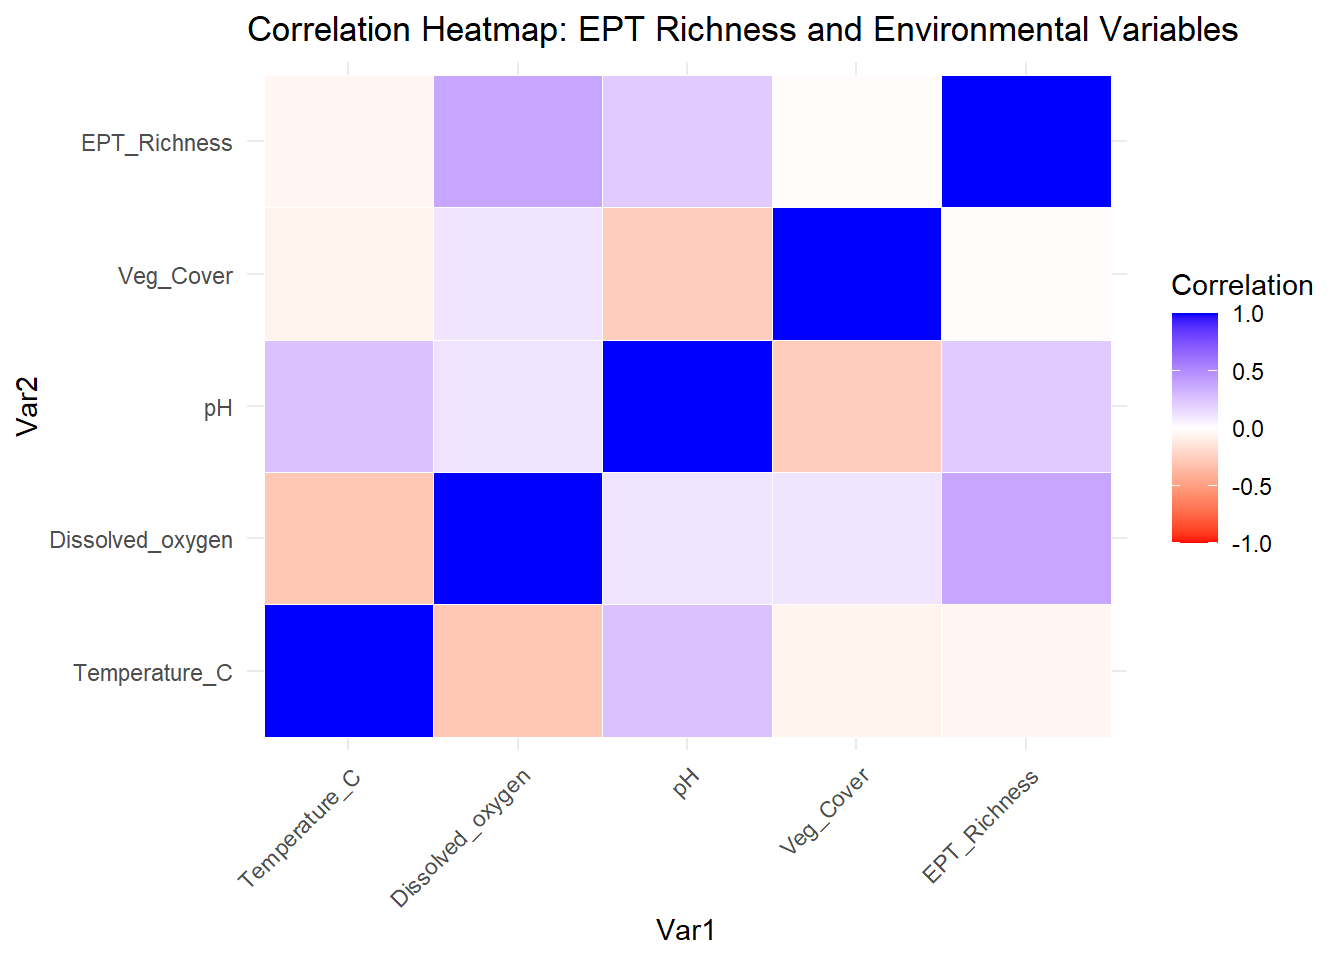
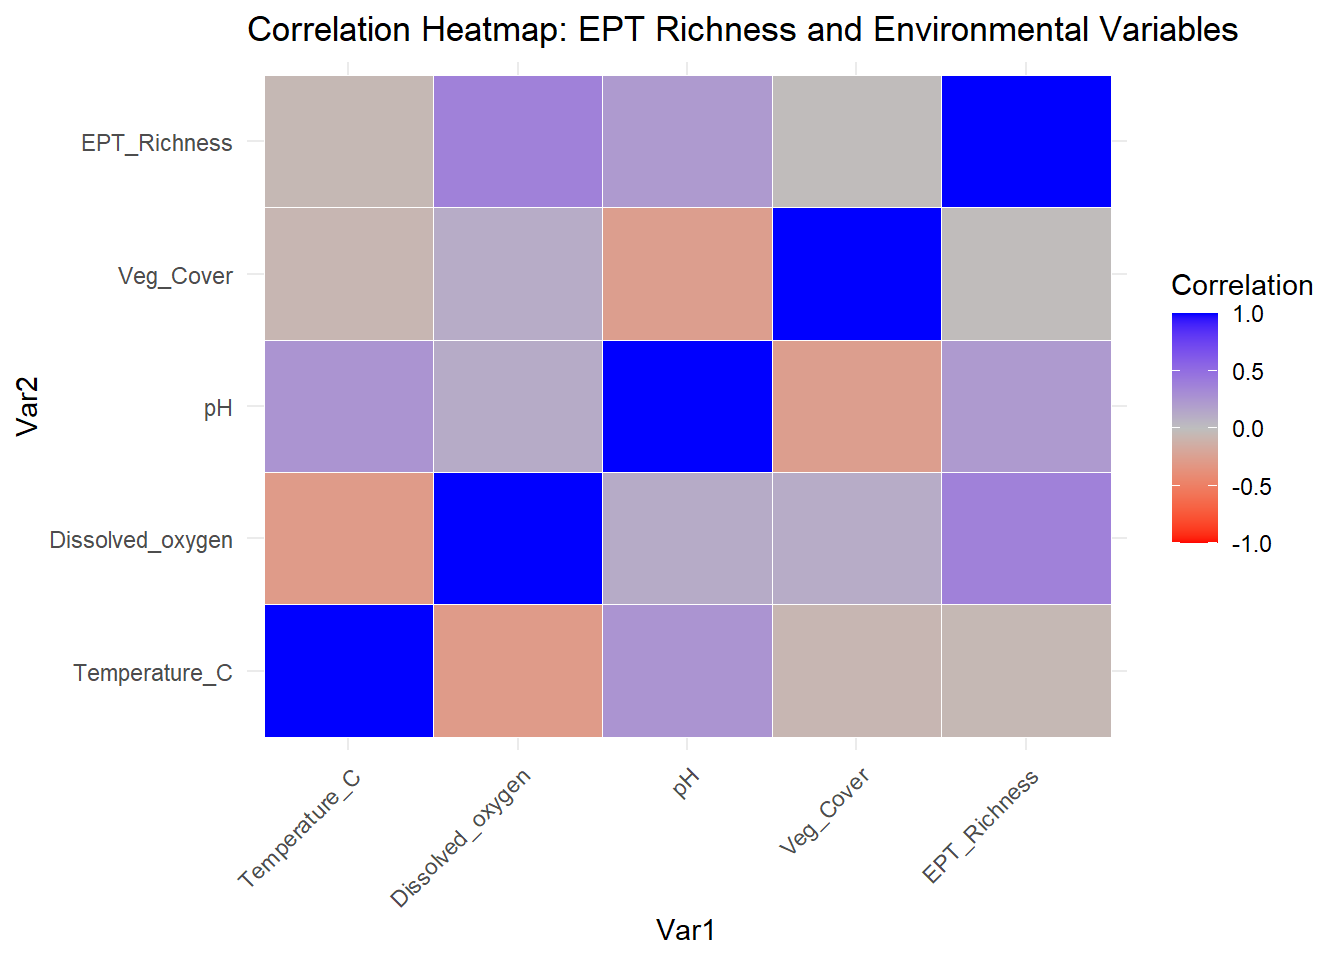
saved

diff --git a/docs/index.html b/docs/index.html
@@ -3447,10 +3447,12 @@ Attaching package: &#39;reshape2&#39;</code></pre>
 <a class="quarto-notebook-link" id="nblink-1" href="index-preview.html">Source: Article Notebook</a></div>
 <div class="cell">
 <div class="sourceCode cell-code" id="cb27"><pre class="sourceCode r code-with-copy"><code class="sourceCode r"><span id="cb27-1"><a href="#cb27-1" aria-hidden="true" tabindex="-1"></a><span class="co"># Predicted vs Actual Plot</span></span>
-<span id="cb27-2"><a href="#cb27-2" aria-hidden="true" tabindex="-1"></a><span class="fu">ggplot</span>(predictions, <span class="fu">aes</span>(<span class="at">x =</span> Taxa_Richness, <span class="at">y =</span> .pred)) <span class="sc">+</span> </span>
+<span id="cb27-2"><a href="#cb27-2" aria-hidden="true" tabindex="-1"></a>predicted_vs_actual <span class="ot">&lt;-</span> <span class="fu">ggplot</span>(predictions, <span class="fu">aes</span>(<span class="at">x =</span> Taxa_Richness, <span class="at">y =</span> .pred)) <span class="sc">+</span> </span>
 <span id="cb27-3"><a href="#cb27-3" aria-hidden="true" tabindex="-1"></a>  <span class="fu">geom_point</span>(<span class="at">alpha =</span> <span class="fl">0.5</span>) <span class="sc">+</span> </span>
 <span id="cb27-4"><a href="#cb27-4" aria-hidden="true" tabindex="-1"></a>  <span class="fu">geom_abline</span>(<span class="at">linetype =</span> <span class="st">&quot;dashed&quot;</span>, <span class="at">color =</span> <span class="st">&quot;blue&quot;</span>) <span class="sc">+</span> </span>
-<span id="cb27-5"><a href="#cb27-5" aria-hidden="true" tabindex="-1"></a>  <span class="fu">labs</span>(<span class="at">x =</span> <span class="st">&quot;Actual Taxa Richness&quot;</span>, <span class="at">y =</span> <span class="st">&quot;Predicted&quot;</span>, <span class="at">title =</span> <span class="st">&quot;Predicted vs Actual Taxa Richness&quot;</span>)</span></code><button title="Copy to Clipboard" class="code-copy-button"><i class="bi"></i></button></pre></div>
+<span id="cb27-5"><a href="#cb27-5" aria-hidden="true" tabindex="-1"></a>  <span class="fu">labs</span>(<span class="at">x =</span> <span class="st">&quot;Actual Taxa Richness&quot;</span>, <span class="at">y =</span> <span class="st">&quot;Predicted&quot;</span>, <span class="at">title =</span> <span class="st">&quot;Predicted vs Actual Taxa Richness&quot;</span>)</span>
+<span id="cb27-6"><a href="#cb27-6" aria-hidden="true" tabindex="-1"></a></span>
+<span id="cb27-7"><a href="#cb27-7" aria-hidden="true" tabindex="-1"></a><span class="fu">print</span>(predicted_vs_actual)</span></code><button title="Copy to Clipboard" class="code-copy-button"><i class="bi"></i></button></pre></div>
 <div class="cell-output-display">
 <div>
 <figure class="figure">
@@ -3466,11 +3468,13 @@ Attaching package: &#39;reshape2&#39;</code></pre>
 <span id="cb28-3"><a href="#cb28-3" aria-hidden="true" tabindex="-1"></a>  <span class="fu">group_by</span>(Year, Order) <span class="sc">%&gt;%</span></span>
 <span id="cb28-4"><a href="#cb28-4" aria-hidden="true" tabindex="-1"></a>  <span class="fu">summarise</span>(<span class="at">Total_Count =</span> <span class="fu">sum</span>(Count, <span class="at">na.rm =</span> <span class="cn">TRUE</span>), <span class="at">.groups =</span> <span class="st">&quot;drop&quot;</span>)</span>
 <span id="cb28-5"><a href="#cb28-5" aria-hidden="true" tabindex="-1"></a></span>
-<span id="cb28-6"><a href="#cb28-6" aria-hidden="true" tabindex="-1"></a><span class="fu">ggplot</span>(order_counts, <span class="fu">aes</span>(<span class="at">x =</span> <span class="fu">reorder</span>(Order, <span class="sc">-</span>Total_Count), <span class="at">y =</span> Total_Count, <span class="at">fill =</span> <span class="fu">factor</span>(Year))) <span class="sc">+</span></span>
+<span id="cb28-6"><a href="#cb28-6" aria-hidden="true" tabindex="-1"></a>insect_order_abundane <span class="ot">&lt;-</span> <span class="fu">ggplot</span>(order_counts, <span class="fu">aes</span>(<span class="at">x =</span> <span class="fu">reorder</span>(Order, <span class="sc">-</span>Total_Count), <span class="at">y =</span> Total_Count, <span class="at">fill =</span> <span class="fu">factor</span>(Year))) <span class="sc">+</span></span>
 <span id="cb28-7"><a href="#cb28-7" aria-hidden="true" tabindex="-1"></a>  <span class="fu">geom_col</span>(<span class="at">position =</span> <span class="st">&quot;dodge&quot;</span>) <span class="sc">+</span></span>
 <span id="cb28-8"><a href="#cb28-8" aria-hidden="true" tabindex="-1"></a>  <span class="fu">labs</span>(<span class="at">title =</span> <span class="st">&quot;Total Insect Counts by Order: 2013 vs 2019&quot;</span>, <span class="at">x =</span> <span class="st">&quot;Insect Order&quot;</span>, <span class="at">y =</span> <span class="st">&quot;Total Count&quot;</span>, <span class="at">fill =</span> <span class="st">&quot;Year&quot;</span>) <span class="sc">+</span></span>
 <span id="cb28-9"><a href="#cb28-9" aria-hidden="true" tabindex="-1"></a>  <span class="fu">theme_minimal</span>() <span class="sc">+</span></span>
-<span id="cb28-10"><a href="#cb28-10" aria-hidden="true" tabindex="-1"></a>  <span class="fu">theme</span>(<span class="at">axis.text.x =</span> <span class="fu">element_text</span>(<span class="at">angle =</span> <span class="dv">45</span>, <span class="at">hjust =</span> <span class="dv">1</span>))</span></code><button title="Copy to Clipboard" class="code-copy-button"><i class="bi"></i></button></pre></div>
+<span id="cb28-10"><a href="#cb28-10" aria-hidden="true" tabindex="-1"></a>  <span class="fu">theme</span>(<span class="at">axis.text.x =</span> <span class="fu">element_text</span>(<span class="at">angle =</span> <span class="dv">45</span>, <span class="at">hjust =</span> <span class="dv">1</span>))</span>
+<span id="cb28-11"><a href="#cb28-11" aria-hidden="true" tabindex="-1"></a></span>
+<span id="cb28-12"><a href="#cb28-12" aria-hidden="true" tabindex="-1"></a><span class="fu">print</span>(insect_order_abundane)</span></code><button title="Copy to Clipboard" class="code-copy-button"><i class="bi"></i></button></pre></div>
 <div class="cell-output-display">
 <div>
 <figure class="figure">
@@ -3485,11 +3489,13 @@ Attaching package: &#39;reshape2&#39;</code></pre>
 <span id="cb29-2"><a href="#cb29-2" aria-hidden="true" tabindex="-1"></a>riparian_combined <span class="ot">&lt;-</span> merged_data <span class="sc">%&gt;%</span></span>
 <span id="cb29-3"><a href="#cb29-3" aria-hidden="true" tabindex="-1"></a>  <span class="fu">select</span>(Barren_AreaCcover, Year)</span>
 <span id="cb29-4"><a href="#cb29-4" aria-hidden="true" tabindex="-1"></a></span>
-<span id="cb29-5"><a href="#cb29-5" aria-hidden="true" tabindex="-1"></a><span class="fu">ggplot</span>(riparian_combined, <span class="fu">aes</span>(<span class="at">x =</span> Barren_AreaCcover, <span class="at">fill =</span> <span class="fu">factor</span>(Year))) <span class="sc">+</span></span>
+<span id="cb29-5"><a href="#cb29-5" aria-hidden="true" tabindex="-1"></a>riparian_cover <span class="ot">&lt;-</span> <span class="fu">ggplot</span>(riparian_combined, <span class="fu">aes</span>(<span class="at">x =</span> Barren_AreaCcover, <span class="at">fill =</span> <span class="fu">factor</span>(Year))) <span class="sc">+</span></span>
 <span id="cb29-6"><a href="#cb29-6" aria-hidden="true" tabindex="-1"></a>  <span class="fu">geom_bar</span>(<span class="at">position =</span> <span class="st">&quot;dodge&quot;</span>) <span class="sc">+</span></span>
 <span id="cb29-7"><a href="#cb29-7" aria-hidden="true" tabindex="-1"></a>  <span class="fu">labs</span>(<span class="at">title =</span> <span class="st">&quot;Riparian Cover Categories in Lassen NP&quot;</span>, <span class="at">x =</span> <span class="st">&quot;Cover Category&quot;</span>, <span class="at">y =</span> <span class="st">&quot;Count&quot;</span>, <span class="at">fill =</span> <span class="st">&quot;Year&quot;</span>) <span class="sc">+</span></span>
 <span id="cb29-8"><a href="#cb29-8" aria-hidden="true" tabindex="-1"></a>  <span class="fu">theme_minimal</span>() <span class="sc">+</span></span>
-<span id="cb29-9"><a href="#cb29-9" aria-hidden="true" tabindex="-1"></a>  <span class="fu">theme</span>(<span class="at">axis.text.x =</span> <span class="fu">element_text</span>(<span class="at">angle =</span> <span class="dv">45</span>, <span class="at">hjust =</span> <span class="dv">1</span>))</span></code><button title="Copy to Clipboard" class="code-copy-button"><i class="bi"></i></button></pre></div>
+<span id="cb29-9"><a href="#cb29-9" aria-hidden="true" tabindex="-1"></a>  <span class="fu">theme</span>(<span class="at">axis.text.x =</span> <span class="fu">element_text</span>(<span class="at">angle =</span> <span class="dv">45</span>, <span class="at">hjust =</span> <span class="dv">1</span>))</span>
+<span id="cb29-10"><a href="#cb29-10" aria-hidden="true" tabindex="-1"></a></span>
+<span id="cb29-11"><a href="#cb29-11" aria-hidden="true" tabindex="-1"></a><span class="fu">print</span>(riparian_cover)</span></code><button title="Copy to Clipboard" class="code-copy-button"><i class="bi"></i></button></pre></div>
 <div class="cell-output-display">
 <div>
 <figure class="figure">
@@ -3506,12 +3512,14 @@ Attaching package: &#39;reshape2&#39;</code></pre>
 <span id="cb30-4"><a href="#cb30-4" aria-hidden="true" tabindex="-1"></a>  <span class="fu">drop_na</span>() <span class="sc">%&gt;%</span></span>
 <span id="cb30-5"><a href="#cb30-5" aria-hidden="true" tabindex="-1"></a>  <span class="fu">pivot_longer</span>(<span class="at">cols =</span> <span class="fu">c</span>(Temperature_C, Dissolved_oxygen, pH), <span class="at">names_to =</span> <span class="st">&quot;Metric&quot;</span>, <span class="at">values_to =</span> <span class="st">&quot;Value&quot;</span>)</span>
 <span id="cb30-6"><a href="#cb30-6" aria-hidden="true" tabindex="-1"></a></span>
-<span id="cb30-7"><a href="#cb30-7" aria-hidden="true" tabindex="-1"></a><span class="fu">ggplot</span>(water_quality_long, <span class="fu">aes</span>(<span class="at">x =</span> <span class="fu">factor</span>(Year), <span class="at">y =</span> Value, <span class="at">fill =</span> <span class="fu">factor</span>(Year))) <span class="sc">+</span></span>
+<span id="cb30-7"><a href="#cb30-7" aria-hidden="true" tabindex="-1"></a>water_quality <span class="ot">&lt;-</span> <span class="fu">ggplot</span>(water_quality_long, <span class="fu">aes</span>(<span class="at">x =</span> <span class="fu">factor</span>(Year), <span class="at">y =</span> Value, <span class="at">fill =</span> <span class="fu">factor</span>(Year))) <span class="sc">+</span></span>
 <span id="cb30-8"><a href="#cb30-8" aria-hidden="true" tabindex="-1"></a>  <span class="fu">geom_boxplot</span>(<span class="at">alpha =</span> <span class="fl">0.7</span>) <span class="sc">+</span></span>
 <span id="cb30-9"><a href="#cb30-9" aria-hidden="true" tabindex="-1"></a>  <span class="fu">facet_wrap</span>(<span class="sc">~</span> Metric, <span class="at">scales =</span> <span class="st">&quot;free_y&quot;</span>) <span class="sc">+</span></span>
 <span id="cb30-10"><a href="#cb30-10" aria-hidden="true" tabindex="-1"></a>  <span class="fu">labs</span>(<span class="at">title =</span> <span class="st">&quot;Water Quality Metrics (2013 vs 2019)&quot;</span>, <span class="at">x =</span> <span class="st">&quot;Year&quot;</span>, <span class="at">y =</span> <span class="st">&quot;Value&quot;</span>) <span class="sc">+</span></span>
 <span id="cb30-11"><a href="#cb30-11" aria-hidden="true" tabindex="-1"></a>  <span class="fu">scale_fill_manual</span>(<span class="at">values =</span> <span class="fu">c</span>(<span class="st">&quot;2013&quot;</span> <span class="ot">=</span> <span class="st">&quot;blue&quot;</span>, <span class="st">&quot;2019&quot;</span> <span class="ot">=</span> <span class="st">&quot;orange&quot;</span>)) <span class="sc">+</span></span>
-<span id="cb30-12"><a href="#cb30-12" aria-hidden="true" tabindex="-1"></a>  <span class="fu">theme_minimal</span>()</span></code><button title="Copy to Clipboard" class="code-copy-button"><i class="bi"></i></button></pre></div>
+<span id="cb30-12"><a href="#cb30-12" aria-hidden="true" tabindex="-1"></a>  <span class="fu">theme_minimal</span>()</span>
+<span id="cb30-13"><a href="#cb30-13" aria-hidden="true" tabindex="-1"></a></span>
+<span id="cb30-14"><a href="#cb30-14" aria-hidden="true" tabindex="-1"></a><span class="fu">print</span>(water_quality)</span></code><button title="Copy to Clipboard" class="code-copy-button"><i class="bi"></i></button></pre></div>
 <div class="cell-output-display">
 <div>
 <figure class="figure">
@@ -3539,13 +3547,15 @@ Attaching package: &#39;reshape2&#39;</code></pre>
 <span id="cb31-15"><a href="#cb31-15" aria-hidden="true" tabindex="-1"></a>cor_matrix <span class="ot">&lt;-</span> <span class="fu">cor</span>(correlation_data, <span class="at">use =</span> <span class="st">&quot;complete.obs&quot;</span>)</span>
 <span id="cb31-16"><a href="#cb31-16" aria-hidden="true" tabindex="-1"></a>cor_melt <span class="ot">&lt;-</span> <span class="fu">melt</span>(cor_matrix)</span>
 <span id="cb31-17"><a href="#cb31-17" aria-hidden="true" tabindex="-1"></a></span>
-<span id="cb31-18"><a href="#cb31-18" aria-hidden="true" tabindex="-1"></a><span class="fu">ggplot</span>(cor_melt, <span class="fu">aes</span>(Var1, Var2, <span class="at">fill =</span> value)) <span class="sc">+</span></span>
+<span id="cb31-18"><a href="#cb31-18" aria-hidden="true" tabindex="-1"></a>correlation_heatmap <span class="ot">&lt;-</span> <span class="fu">ggplot</span>(cor_melt, <span class="fu">aes</span>(Var1, Var2, <span class="at">fill =</span> value)) <span class="sc">+</span></span>
 <span id="cb31-19"><a href="#cb31-19" aria-hidden="true" tabindex="-1"></a>  <span class="fu">geom_tile</span>(<span class="at">color =</span> <span class="st">&quot;white&quot;</span>) <span class="sc">+</span></span>
-<span id="cb31-20"><a href="#cb31-20" aria-hidden="true" tabindex="-1"></a>  <span class="fu">scale_fill_gradient2</span>(<span class="at">low =</span> <span class="st">&quot;red&quot;</span>, <span class="at">high =</span> <span class="st">&quot;blue&quot;</span>, <span class="at">mid =</span> <span class="st">&quot;white&quot;</span>,</span>
+<span id="cb31-20"><a href="#cb31-20" aria-hidden="true" tabindex="-1"></a>  <span class="fu">scale_fill_gradient2</span>(<span class="at">low =</span> <span class="st">&quot;red&quot;</span>, <span class="at">high =</span> <span class="st">&quot;blue&quot;</span>, <span class="at">mid =</span> <span class="st">&quot;grey&quot;</span>,</span>
 <span id="cb31-21"><a href="#cb31-21" aria-hidden="true" tabindex="-1"></a>                       <span class="at">midpoint =</span> <span class="dv">0</span>, <span class="at">limit =</span> <span class="fu">c</span>(<span class="sc">-</span><span class="dv">1</span>, <span class="dv">1</span>), <span class="at">name =</span> <span class="st">&quot;Correlation&quot;</span>) <span class="sc">+</span></span>
 <span id="cb31-22"><a href="#cb31-22" aria-hidden="true" tabindex="-1"></a>  <span class="fu">labs</span>(<span class="at">title =</span> <span class="st">&quot;Correlation Heatmap: EPT Richness and Environmental Variables&quot;</span>) <span class="sc">+</span></span>
 <span id="cb31-23"><a href="#cb31-23" aria-hidden="true" tabindex="-1"></a>  <span class="fu">theme_minimal</span>() <span class="sc">+</span></span>
-<span id="cb31-24"><a href="#cb31-24" aria-hidden="true" tabindex="-1"></a>  <span class="fu">theme</span>(<span class="at">axis.text.x =</span> <span class="fu">element_text</span>(<span class="at">angle =</span> <span class="dv">45</span>, <span class="at">hjust =</span> <span class="dv">1</span>))</span></code><button title="Copy to Clipboard" class="code-copy-button"><i class="bi"></i></button></pre></div>
+<span id="cb31-24"><a href="#cb31-24" aria-hidden="true" tabindex="-1"></a>  <span class="fu">theme</span>(<span class="at">axis.text.x =</span> <span class="fu">element_text</span>(<span class="at">angle =</span> <span class="dv">45</span>, <span class="at">hjust =</span> <span class="dv">1</span>))</span>
+<span id="cb31-25"><a href="#cb31-25" aria-hidden="true" tabindex="-1"></a></span>
+<span id="cb31-26"><a href="#cb31-26" aria-hidden="true" tabindex="-1"></a><span class="fu">print</span>(correlation_heatmap)</span></code><button title="Copy to Clipboard" class="code-copy-button"><i class="bi"></i></button></pre></div>
 <div class="cell-output-display">
 <div>
 <figure class="figure">
@@ -3991,7 +4001,7 @@ window.document.addEventListener("DOMContentLoaded", function (event) {
 });
 </script>
 </div> <!-- /content -->
-<script>var lightboxQuarto = GLightbox({"closeEffect":"zoom","descPosition":"bottom","loop":false,"selector":".lightbox","openEffect":"zoom"});
+<script>var lightboxQuarto = GLightbox({"openEffect":"zoom","closeEffect":"zoom","loop":false,"descPosition":"bottom","selector":".lightbox"});
 (function() {
   let previousOnload = window.onload;
   window.onload = () => {
